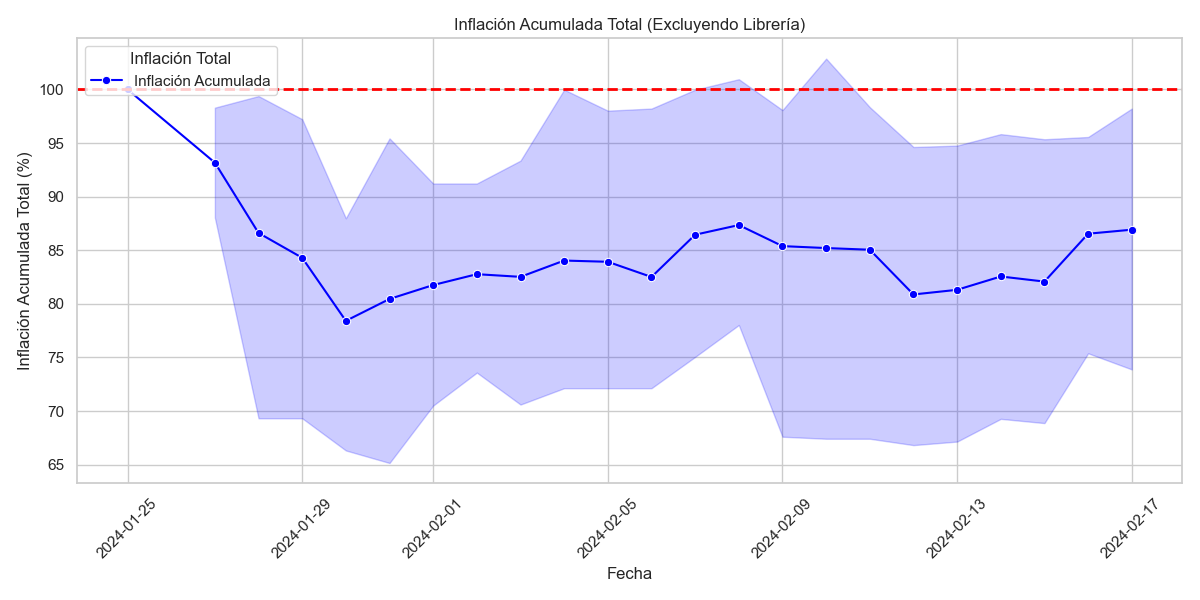
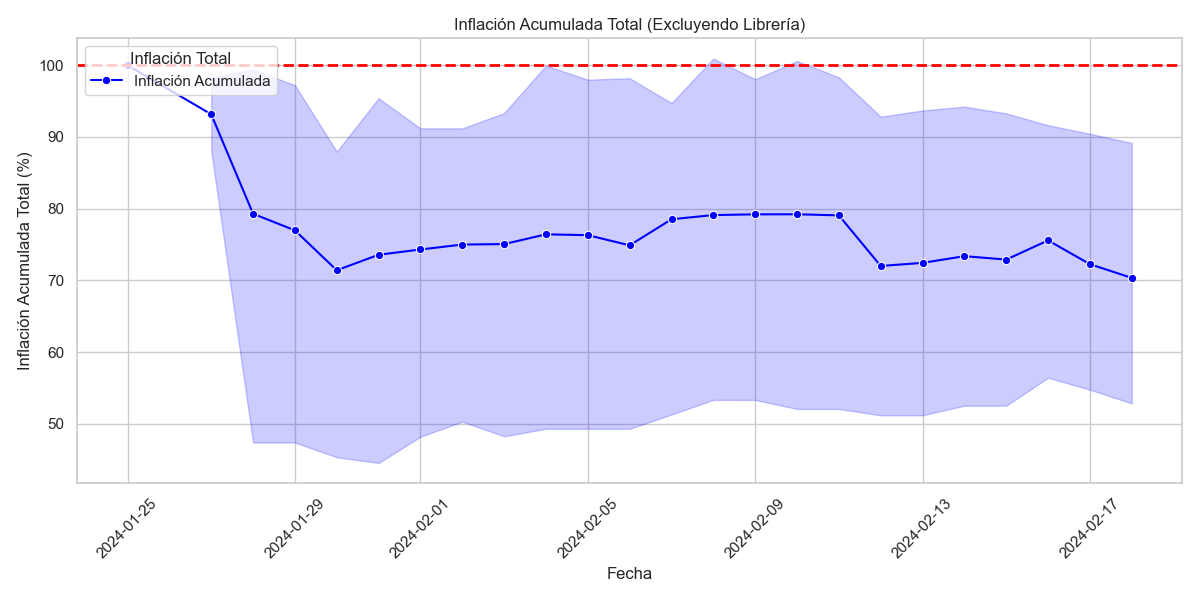
more pages

diff --git a/extract/precios.py b/extract/precios.py
@@ -25,6 +25,8 @@ def get_store_name_from_url(url):
         return 'dexter'
     elif 'levi.com.ar' in url:
         return 'levis'
+    elif 'zonaprop.com.ar' in url:
+        return 'zonaprop'
     else:
         return 'unknown'
 
@@ -73,10 +75,13 @@ def extract_price_selenium(url, store_name):
         driver.quit()
     
     return None
+
 def get_type_store(url):
     if 'order' in url:
         return 'all'
     elif 'Order' in url:
+        return 'all'
+    if 'depar' in url:
         return 'all'
     else:
         return 'single'
@@ -151,6 +156,10 @@ def extract_multiple_prices_and_names_selenium(url, store_name, max_attempts=3):
             'price': 'discoargentina-store-theme-1dCOMij_MzTzZOCohX1K7w',
             'name': '.vtex-product-summary-2-x-productBrand.vtex-product-summary-2-x-brandName.t-body'
         },
+        'zonaprop': {
+            'price': '[data-qa="POSTING_CARD_PRICE"]',  # Actualizado para uso de atributos
+            'name': '[data-qa="POSTING_CARD_LOCATION"]',  # Actualizado para uso de atributos
+    },
         # Agrega más tiendas aquí con sus respectivos selectores
     }
 
@@ -161,35 +170,45 @@ def extract_multiple_prices_and_names_selenium(url, store_name, max_attempts=3):
     
     price_selector = store_selectors[store_name]['price']
     name_selector = store_selectors[store_name]['name']
-
+    print(f"Using price selector '{price_selector}' and name selector '{name_selector}' for store '{store_name}'")
     while attempt < max_attempts and not data:
         try:
             driver.get(url)
             time.sleep(2)  # Espera inicial para que la página comience a cargar
             
             # Simula el desplazamiento hacia abajo para cargar más productos
-            for _ in range(5):  # Ajusta según la necesidad de la página
+            for _ in range(7):  # Ajusta según la necesidad de la página
                 driver.execute_script("window.scrollTo(0, document.body.scrollHeight);")
-                time.sleep(2)
+                time.sleep(1)
+            if store_name == 'zonaprop':
+                # Uso de CSS_SELECTOR para zonaprop
+                WebDriverWait(driver, 10).until(
+                    EC.visibility_of_all_elements_located((By.CSS_SELECTOR, price_selector))
+                )
+                WebDriverWait(driver, 10).until(
+                    EC.visibility_of_all_elements_located((By.CSS_SELECTOR, name_selector))
+                )
+                price_elements = driver.find_elements(By.CSS_SELECTOR, price_selector)
+                name_elements = driver.find_elements(By.CSS_SELECTOR, name_selector)
+            else:
+                # Espera explícita para los precios
+                WebDriverWait(driver, 10).until(
+                    EC.visibility_of_all_elements_located((By.CLASS_NAME, price_selector))
+                )
+                
+                # Espera explícita para los nombres
+                WebDriverWait(driver, 10).until(
+                    EC.visibility_of_all_elements_located((By.CSS_SELECTOR, name_selector))
+                )
+                price_elements = driver.find_elements(By.CLASS_NAME, price_selector)
+                name_elements = driver.find_elements(By.CSS_SELECTOR, name_selector)
 
-            # Espera explícita para los precios
-            WebDriverWait(driver, 10).until(
-                EC.visibility_of_all_elements_located((By.CLASS_NAME, price_selector))
-            )
-            
-            # Espera explícita para los nombres
-            WebDriverWait(driver, 10).until(
-                EC.visibility_of_all_elements_located((By.CSS_SELECTOR, name_selector))
-            )
-            
-            price_elements = driver.find_elements(By.CLASS_NAME, price_selector)
-            name_elements = driver.find_elements(By.CSS_SELECTOR, name_selector)
-            
-            prices = [element.text.strip() for element in price_elements if element.text.strip() != '']
-            names = [clean_text(element.text.strip()) for element in name_elements if element.text.strip() != '']
-            
+                prices = [element.text.strip() for element in price_elements if element.text.strip() != '']
+                names = [clean_text(element.text.strip()) for element in name_elements if element.text.strip() != '']
+
+            print(price_elements)
+            print(name_elements)            
             data = [{'name': name, 'price': price} for name, price in zip(names, prices) if name and price]
-            
         except (TimeoutException, NoSuchElementException, StaleElementReferenceException) as e:
             print(f"Error en el intento {attempt + 1}: {e}")
         finally:

diff --git a/transform/graficos_diarios.py b/transform/graficos_diarios.py
@@ -28,7 +28,6 @@ ORDER BY p.categoria, p.date;
 
 
 def limpiar_data(data_hoy):
-    
     # Asegurar que 'date' es de tipo datetime y 'cambio_porcentual' es flotante
     data_hoy['date'] = pd.to_datetime(data_hoy['date'])
     data_hoy['cambio_porcentual'] = data_hoy['cambio_porcentual'].astype(float)
@@ -44,6 +43,33 @@ def limpiar_data(data_hoy):
 
     # Filtrar para excluir los registros marcados como 'primer_post_null'
     data_filtrado = data_hoy[~data_hoy['primer_post_null']].copy()
+
+    # Ajustar las categorías según las especificaciones
+    categorias_a_ajustar = data_filtrado['categoria'].unique().tolist()
+    # Remover las categorías que no necesitan ajuste
+    for categoria_no_ajustar in ['alimentos', 'bebidas', 'limpieza']:
+        if categoria_no_ajustar in categorias_a_ajustar:
+            categorias_a_ajustar.remove(categoria_no_ajustar)
+
+    # Fecha de ajuste
+    fecha_base = pd.Timestamp('2024-02-17')
+
+    # Ajustar categorías a base 100
+    for categoria in categorias_a_ajustar:
+        # Encontrar el índice del primer registro después de la fecha base para cada categoría
+        indice_base = data_filtrado[(data_filtrado['categoria'] == categoria) & (data_filtrado['date'] > fecha_base)].index.min()
+        
+        # Si no hay datos después de la fecha base, continuar con la siguiente categoría
+        if pd.isna(indice_base):
+            continue
+        
+        # Calcular el cambio porcentual como si el valor en 'indice_base' fuera 100
+        valor_base = data_filtrado.at[indice_base, 'avg_precio']
+        data_filtrado.loc[data_filtrado['categoria'] == categoria, 'avg_precio'] = data_filtrado.loc[data_filtrado['categoria'] == categoria, 'avg_precio'] / valor_base * 100
+
+        # Recalcular el cambio porcentual para esta categoría
+        data_filtrado.loc[data_filtrado['categoria'] == categoria, 'cambio_porcentual'] = data_filtrado.loc[data_filtrado['categoria'] == categoria, 'avg_precio'].pct_change() * 100
+
     return data_filtrado
 
 def plot_inflacion_diaria(data_hoy):
@@ -330,10 +356,7 @@ if __name__ == '__main__':
     plot_inflacion_diaria(data_filtrado)
     plot_inflacion_acumulada(data_filtrado)
     plot_inflacion_acumulada_total_excluyendo_libreria(data_filtrado)
-    resultado = data_filtrado.groupby('date').apply(calcular_promedio_ponderado).reset_index().rename(columns={0: 'cambio_porcentual_ponderado'})
-    plot_price_change(resultado)
     # Visualizar el resultado
-    print(resultado)
     #data_filtrado = calcular_inflacion_acumulada_total(data_filtrado)  # Calcula la inflación acumulada total
 #
     #plot_cambio_porcentual_diario(data_filtrado)

diff --git a/transform/armar_categorias.py b/transform/armar_categorias.py
@@ -2,6 +2,7 @@ import datetime
 from extract.precios import get_store_name_from_url, extract_multiple_prices_and_names_selenium, get_type_store
 import pandas as pd
 
+https://www.zonaprop.com.ar/departamentos-alquiler-capital-federal-mas-de-1-bano-1-habitacion-2-ambientes-sin-garages-40-50-m2-cubiertos.html
 def extract_category(url):
     url_lower = url.lower()  # Convierte la URL a minúsculas
     if 'electro' in url_lower:
@@ -18,6 +19,12 @@ def extract_category(url):
         return 'desayuno'
     elif 'map=productclusterids' in url_lower and '163' in url_lower:
         return 'sin TACC'
+    elif 'quesos' in url_lower or 'fiambres' in url_lower:
+        return 'fiambres y quesos'
+    elif 'carnes' in url_lower:
+        return 'carnes'
+    elif 'depart' in url_lower:
+        return 'departamentos'
     else:
         return 'otro'
 
@@ -25,6 +32,14 @@ def extract_subcategory(url):
     url_lower = url.lower()  # Convierte la URL a minúsculas
     if 'electros' in url_lower:
         return 'pequenos electrodomesticos'
+    elif '/quesos' in url_lower:
+        return 'quesos'
+    elif '/fiambres' in url_lower:
+        return 'fiambres'
+    elif 'cerdo' in url_lower:
+        return 'cerdo'
+    elif 'vacuna' in url_lower:
+        return 'vaca'
     elif 'cuidado-oral' in url_lower:
         return 'cuidado oral'
     elif 'farmacia' in url_lower:
@@ -51,6 +66,8 @@ def extract_subcategory(url):
         return 'galletitas'
     elif 'map=productclusterids' in url_lower and '163' in url_lower:
         return 'sin TACC'
+    elif 'federal' in url_lower:
+        return 'capital federal'
     else:
         return 'otro'
 
